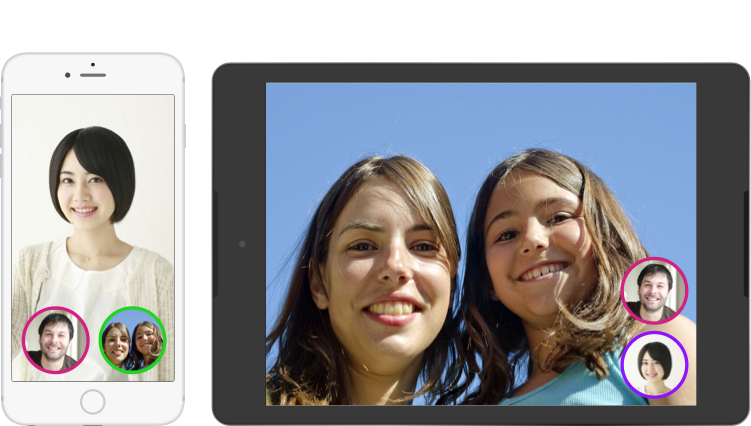
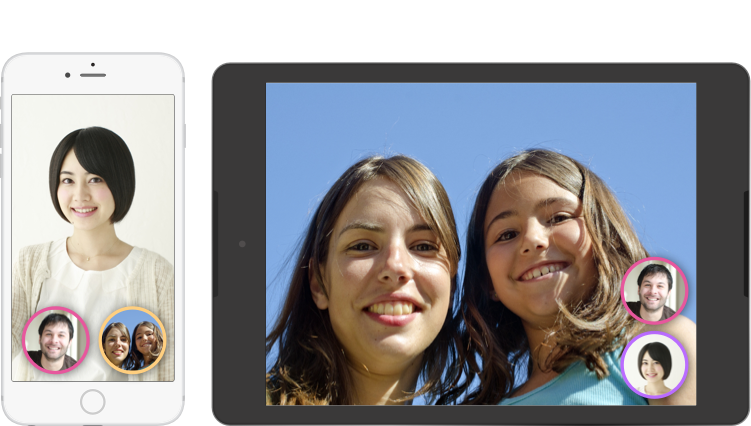
animation timing + ring colours

diff --git a/styles/transmission-animation-subpage.css b/styles/transmission-animation-subpage.css
@@ -42,7 +42,7 @@
     
     opacity: 0.1;
     
-    -webkit-animation: pulsateLogo 2s 1s ease-out infinite; 
+    -webkit-animation: pulsateLogo 3s 1s ease-out infinite; 
 }
 
 #animated-logo-js {
@@ -62,7 +62,7 @@
     
     opacity: 0.1;
     
-    -webkit-animation: pulsateLogo 2s 1s ease-out infinite; 
+    -webkit-animation: pulsateLogo 3s 1s ease-out infinite; 
 }
 
 .circle-container {
@@ -91,13 +91,13 @@
    
 }
 
-.circle-container div:nth-of-type(1) { -webkit-animation: pulsate1 2s 0s ease-out infinite;  } /* 12em = half the width of the wrapper */
-.circle-container div:nth-of-type(2) { -webkit-animation: pulsate2 2s 0.25s ease-out infinite; }
-.circle-container div:nth-of-type(3) { -webkit-animation: pulsate3 2s 0.5s ease-out infinite; }
-.circle-container div:nth-of-type(4) { -webkit-animation: pulsate4 2s 0.75s ease-out infinite; }
-.circle-container div:nth-of-type(5) { -webkit-animation: pulsate5 2s 1s ease-out infinite; }
-.circle-container div:nth-of-type(6) { -webkit-animation: pulsate6 2s 1.25s ease-out infinite; }
-.circle-container div:nth-of-type(7) { -webkit-animation: pulsate7 2s 1.5s ease-out infinite; }
+.circle-container div:nth-of-type(1) { -webkit-animation: pulsate1 3s 0s ease-out infinite;  } /* 12em = half the width of the wrapper */
+.circle-container div:nth-of-type(2) { -webkit-animation: pulsate2 3s 0.25s ease-out infinite; }
+.circle-container div:nth-of-type(3) { -webkit-animation: pulsate3 3s 0.5s ease-out infinite; }
+.circle-container div:nth-of-type(4) { -webkit-animation: pulsate4 3s 0.75s ease-out infinite; }
+.circle-container div:nth-of-type(5) { -webkit-animation: pulsate5 3s 1s ease-out infinite; }
+.circle-container div:nth-of-type(6) { -webkit-animation: pulsate6 3s 1.25s ease-out infinite; }
+.circle-container div:nth-of-type(7) { -webkit-animation: pulsate7 3s 1.5s ease-out infinite; }
 
 /* this is for showing the circle on which the images are placed */
 .circle-container:after {
@@ -116,44 +116,44 @@
 /*
 @-webkit-keyframes pulsate1 {
     0% {-webkit-transform: rotate(246deg) translate(20em) scale(0.1, 0.1); opacity: 0.0;}
-    50% {opacity: 0.8;}
-    100% {-webkit-transform: rotate(246deg) translate(20em) scale(1.2, 1.2); opacity: 0.0;}
+    33% {opacity: 0.8;}
+    66% {-webkit-transform: rotate(246deg) translate(20em) scale(1.2, 1.2); opacity: 0.0;}
 }
 
 @-webkit-keyframes pulsate2 {
     0% {-webkit-transform: rotate(256deg) translate(20em) scale(0.1, 0.1); opacity: 0.0;}
-    50% {opacity: 0.8;}
-    100% {-webkit-transform: rotate(256deg) translate(20em) scale(1.2, 1.2); opacity: 0.0;}
+    33% {opacity: 0.8;}
+    66% {-webkit-transform: rotate(256deg) translate(20em) scale(1.2, 1.2); opacity: 0.0;}
 }
 
 @-webkit-keyframes pulsate3 {
     0% {-webkit-transform: rotate(266deg) translate(20em) scale(0.1, 0.1); opacity: 0.0;}
-    50% {opacity: 0.8;}
-    100% {-webkit-transform: rotate(266deg) translate(20em) scale(1.2, 1.2); opacity: 0.0;}
+    33% {opacity: 0.8;}
+    66% {-webkit-transform: rotate(266deg) translate(20em) scale(1.2, 1.2); opacity: 0.0;}
 }
 
 @-webkit-keyframes pulsate4 {
     0% {-webkit-transform: rotate(276deg) translate(20em) scale(0.1, 0.1); opacity: 0.0;}
-    50% {opacity: 0.8;}
-    100% {-webkit-transform: rotate(276deg) translate(20em) scale(1.2, 1.2); opacity: 0.0;}
+    33% {opacity: 0.8;}
+    66% {-webkit-transform: rotate(276deg) translate(20em) scale(1.2, 1.2); opacity: 0.0;}
 }
 
 @-webkit-keyframes pulsate5 {
     0% {-webkit-transform: rotate(286deg) translate(20em) scale(0.1, 0.1); opacity: 0.0;}
-    50% {opacity: 0.8;}
-    100% {-webkit-transform: rotate(286deg) translate(20em) scale(1.2, 1.2); opacity: 0.0;}
+    33% {opacity: 0.8;}
+    66% {-webkit-transform: rotate(286deg) translate(20em) scale(1.2, 1.2); opacity: 0.0;}
 }
 
 @-webkit-keyframes pulsate6 {
     0% {-webkit-transform: rotate(296deg) translate(20em) scale(0.1, 0.1); opacity: 0.0;}
-    50% {opacity: 0.8;}
-    100% {-webkit-transform: rotate(296deg) translate(20em) scale(1.2, 1.2); opacity: 0.0;}
+    33% {opacity: 0.8;}
+    66% {-webkit-transform: rotate(296deg) translate(20em) scale(1.2, 1.2); opacity: 0.0;}
 }
 
 @-webkit-keyframes pulsate7 {
     0% {-webkit-transform: rotate(306deg) translate(20em) scale(0.1, 0.1); opacity: 0.0;}
-    50% {opacity: 0.8;}
-    100% {-webkit-transform: rotate(306deg) translate(20em) scale(1.2, 1.2); opacity: 0.0;}
+    33% {opacity: 0.8;}
+    66% {-webkit-transform: rotate(306deg) translate(20em) scale(1.2, 1.2); opacity: 0.0;}
 }
 */
 
@@ -161,48 +161,48 @@
 
 @keyframes pulsateLogo {
     0% {-webkit-transform: opacity: 0.25;}
-    50% {opacity: 0.8;}
-    100% {-webkit-transform: opacity: 0.25;}
+    33% {opacity: 0.8;}
+    66% {-webkit-transform: opacity: 0.25;}
 }
 
 @keyframes pulsate1 {
     0% {-webkit-transform: rotate(234deg) translate(20em) scale(0.1, 0.1); opacity: 0.0;}
-    50% {-webkit-transform: rotate(234deg) translate(20em) scale(0.75, 0.75); opacity: 0.8;}
-    100% {-webkit-transform: rotate(234deg) translate(20em) scale(0.1, 0.1); opacity: 0.0;}
+    33% {-webkit-transform: rotate(234deg) translate(20em) scale(0.75, 0.75); opacity: 0.8;}
+    66% {-webkit-transform: rotate(234deg) translate(20em) scale(0.1, 0.1); opacity: 0.0;}
 }
 
 @keyframes pulsate2 {
     0% {-webkit-transform: rotate(246deg) translate(20em) scale(0.1, 0.1); opacity: 0.0;}
-    50% {-webkit-transform: rotate(246deg) translate(20em) scale(0.9, 0.9);opacity: 0.8;}
-    100% {-webkit-transform: rotate(246deg) translate(20em) scale(0.1, 0.1); opacity: 0.0;}
+    33% {-webkit-transform: rotate(246deg) translate(20em) scale(0.9, 0.9);opacity: 0.8;}
+    66% {-webkit-transform: rotate(246deg) translate(20em) scale(0.1, 0.1); opacity: 0.0;}
 }
 
 @keyframes pulsate3 {
     0% {-webkit-transform: rotate(258deg) translate(20em) scale(0.1, 0.1); opacity: 0.0;}
-    50% {-webkit-transform: rotate(258deg) translate(20em) scale(1.05, 1.05); opacity: 0.8;}
-    100% {-webkit-transform: rotate(258deg) translate(20em) scale(0.1, 0.1); opacity: 0.0;}
+    33% {-webkit-transform: rotate(258deg) translate(20em) scale(1.05, 1.05); opacity: 0.8;}
+    66% {-webkit-transform: rotate(258deg) translate(20em) scale(0.1, 0.1); opacity: 0.0;}
 }
 
 @keyframes pulsate4 {
     0% {-webkit-transform: rotate(270deg) translate(20em) scale(0.1, 0.1); opacity: 0.0;}
-    50% {-webkit-transform: rotate(270deg) translate(20em) scale(1.2, 1.2); opacity: 0.8;}
-    100% {-webkit-transform: rotate(270deg) translate(20em) scale(0.1, 0.1); opacity: 0.0;}
+    33% {-webkit-transform: rotate(270deg) translate(20em) scale(1.2, 1.2); opacity: 0.8;}
+    66% {-webkit-transform: rotate(270deg) translate(20em) scale(0.1, 0.1); opacity: 0.0;}
 }
 
 @keyframes pulsate5 {
     0% {-webkit-transform: rotate(282deg) translate(20em) scale(0.1, 0.1); opacity: 0.0;}
-    50% {-webkit-transform: rotate(282deg) translate(20em) scale(1.05, 1.05); opacity: 0.8;}
-    100% {-webkit-transform: rotate(282deg) translate(20em) scale(0.1, 0.1); opacity: 0.0;}
+    33% {-webkit-transform: rotate(282deg) translate(20em) scale(1.05, 1.05); opacity: 0.8;}
+    66% {-webkit-transform: rotate(282deg) translate(20em) scale(0.1, 0.1); opacity: 0.0;}
 }
 
 @keyframes pulsate6 {
     0% {-webkit-transform: rotate(294deg) translate(20em) scale(0.1, 0.1); opacity: 0.0;}
-    50% {-webkit-transform: rotate(294deg) translate(20em) scale(0.9, 0.9); opacity: 0.8;}
-    100% {-webkit-transform: rotate(294deg) translate(20em) scale(0.1, 0.1); opacity: 0.0;}
+    33% {-webkit-transform: rotate(294deg) translate(20em) scale(0.9, 0.9); opacity: 0.8;}
+    66% {-webkit-transform: rotate(294deg) translate(20em) scale(0.1, 0.1); opacity: 0.0;}
 }
 
 @keyframes pulsate7 {
     0% {-webkit-transform: rotate(306deg) translate(20em) scale(0.1, 0.1); opacity: 0.0;}
-    50% {-webkit-transform: rotate(306deg) translate(20em) scale(0.75, 0.75); opacity: 0.8;}
-    100% {-webkit-transform: rotate(306deg) translate(20em) scale(0.1, 0.1); opacity: 0.0;}
+    33% {-webkit-transform: rotate(306deg) translate(20em) scale(0.75, 0.75); opacity: 0.8;}
+    66% {-webkit-transform: rotate(306deg) translate(20em) scale(0.1, 0.1); opacity: 0.0;}
 }

diff --git a/styles/transmission-animation.css b/styles/transmission-animation.css
@@ -50,13 +50,13 @@
    
 }
 
-.circle-container div:nth-of-type(1) { -webkit-animation: pulsate1 2s 0s ease-out infinite;  } /* 12em = half the width of the wrapper */
-.circle-container div:nth-of-type(2) { -webkit-animation: pulsate2 2s 0.25s ease-out infinite; }
-.circle-container div:nth-of-type(3) { -webkit-animation: pulsate3 2s 0.5s ease-out infinite; }
-.circle-container div:nth-of-type(4) { -webkit-animation: pulsate4 2s 0.75s ease-out infinite; }
-.circle-container div:nth-of-type(5) { -webkit-animation: pulsate5 2s 1s ease-out infinite; }
-.circle-container div:nth-of-type(6) { -webkit-animation: pulsate6 2s 1.25s ease-out infinite; }
-.circle-container div:nth-of-type(7) { -webkit-animation: pulsate7 2s 1.5s ease-out infinite; }
+.circle-container div:nth-of-type(1) { -webkit-animation: pulsate1 3s 0s ease-out infinite;  } /* 12em = half the width of the wrapper */
+.circle-container div:nth-of-type(2) { -webkit-animation: pulsate2 3s 0.25s ease-out infinite; }
+.circle-container div:nth-of-type(3) { -webkit-animation: pulsate3 3s 0.5s ease-out infinite; }
+.circle-container div:nth-of-type(4) { -webkit-animation: pulsate4 3s 0.75s ease-out infinite; }
+.circle-container div:nth-of-type(5) { -webkit-animation: pulsate5 3s 1s ease-out infinite; }
+.circle-container div:nth-of-type(6) { -webkit-animation: pulsate6 3s 1.25s ease-out infinite; }
+.circle-container div:nth-of-type(7) { -webkit-animation: pulsate7 3s 1.5s ease-out infinite; }
 
 /* this is for showing the circle on which the images are placed */
 .circle-container:after {
@@ -70,92 +70,92 @@
 	content: '';
 }
 
-/* Main Animation - webkit keyframes */
 
-/*
-@-webkit-keyframes pulsate1 {
-    0% {-webkit-transform: rotate(246deg) translate(24em) scale(0.1, 0.1); opacity: 0.0;}
-    50% {opacity: 0.8;}
-    100% {-webkit-transform: rotate(246deg) translate(24em) scale(1.2, 1.2); opacity: 0.0;}
-}
-
-@-webkit-keyframes pulsate2 {
-    0% {-webkit-transform: rotate(256deg) translate(24em) scale(0.1, 0.1); opacity: 0.0;}
-    50% {opacity: 0.8;}
-    100% {-webkit-transform: rotate(256deg) translate(24em) scale(1.2, 1.2); opacity: 0.0;}
-}
-
-@-webkit-keyframes pulsate3 {
-    0% {-webkit-transform: rotate(266deg) translate(24em) scale(0.1, 0.1); opacity: 0.0;}
-    50% {opacity: 0.8;}
-    100% {-webkit-transform: rotate(266deg) translate(24em) scale(1.2, 1.2); opacity: 0.0;}
-}
-
-@-webkit-keyframes pulsate4 {
-    0% {-webkit-transform: rotate(276deg) translate(24em) scale(0.1, 0.1); opacity: 0.0;}
-    50% {opacity: 0.8;}
-    100% {-webkit-transform: rotate(276deg) translate(24em) scale(1.2, 1.2); opacity: 0.0;}
-}
-
-@-webkit-keyframes pulsate5 {
-    0% {-webkit-transform: rotate(286deg) translate(24em) scale(0.1, 0.1); opacity: 0.0;}
-    50% {opacity: 0.8;}
-    100% {-webkit-transform: rotate(286deg) translate(24em) scale(1.2, 1.2); opacity: 0.0;}
-}
-
-@-webkit-keyframes pulsate6 {
-    0% {-webkit-transform: rotate(296deg) translate(24em) scale(0.1, 0.1); opacity: 0.0;}
-    50% {opacity: 0.8;}
-    100% {-webkit-transform: rotate(296deg) translate(24em) scale(1.2, 1.2); opacity: 0.0;}
-}
-
-@-webkit-keyframes pulsate7 {
-    0% {-webkit-transform: rotate(306deg) translate(24em) scale(0.1, 0.1); opacity: 0.0;}
-    50% {opacity: 0.8;}
-    100% {-webkit-transform: rotate(306deg) translate(24em) scale(1.2, 1.2); opacity: 0.0;}
-}
-*/
 
 /* */
 
 @keyframes pulsate1 {
     0% {-webkit-transform: rotate(246deg) translate(24em) scale(0.1, 0.1); opacity: 0.0;}
-    50% {opacity: 0.8;}
-    100% {-webkit-transform: rotate(246deg) translate(24em) scale(1.2, 1.2); opacity: 0.0;}
+    33% {opacity: 0.8;}
+    66% {-webkit-transform: rotate(246deg) translate(24em) scale(1.2, 1.2); opacity: 0.0;}
 }
 
 @keyframes pulsate2 {
     0% {-webkit-transform: rotate(256deg) translate(24em) scale(0.1, 0.1); opacity: 0.0;}
-    50% {opacity: 0.8;}
-    100% {-webkit-transform: rotate(256deg) translate(24em) scale(1.2, 1.2); opacity: 0.0;}
+    33% {opacity: 0.8;}
+    66% {-webkit-transform: rotate(256deg) translate(24em) scale(1.2, 1.2); opacity: 0.0;}
 }
 
 @keyframes pulsate3 {
     0% {-webkit-transform: rotate(266deg) translate(24em) scale(0.1, 0.1); opacity: 0.0;}
-    50% {opacity: 0.8;}
-    100% {-webkit-transform: rotate(266deg) translate(24em) scale(1.2, 1.2); opacity: 0.0;}
+    33% {opacity: 0.8;}
+    66% {-webkit-transform: rotate(266deg) translate(24em) scale(1.2, 1.2); opacity: 0.0;}
 }
 
 @keyframes pulsate4 {
     0% {-webkit-transform: rotate(276deg) translate(24em) scale(0.1, 0.1); opacity: 0.0;}
-    50% {opacity: 0.8;}
-    100% {-webkit-transform: rotate(276deg) translate(24em) scale(1.2, 1.2); opacity: 0.0;}
+    33% {opacity: 0.8;}
+    66% {-webkit-transform: rotate(276deg) translate(24em) scale(1.2, 1.2); opacity: 0.0;}
 }
 
 @keyframes pulsate5 {
     0% {-webkit-transform: rotate(286deg) translate(24em) scale(0.1, 0.1); opacity: 0.0;}
-    50% {opacity: 0.8;}
-    100% {-webkit-transform: rotate(286deg) translate(24em) scale(1.2, 1.2); opacity: 0.0;}
+    33% {opacity: 0.8;}
+    66% {-webkit-transform: rotate(286deg) translate(24em) scale(1.2, 1.2); opacity: 0.0;}
 }
 
 @keyframes pulsate6 {
     0% {-webkit-transform: rotate(296deg) translate(24em) scale(0.1, 0.1); opacity: 0.0;}
-    50% {opacity: 0.8;}
-    100% {-webkit-transform: rotate(296deg) translate(24em) scale(1.2, 1.2); opacity: 0.0;}
+    33% {opacity: 0.8;}
+    66% {-webkit-transform: rotate(296deg) translate(24em) scale(1.2, 1.2); opacity: 0.0;}
 }
 
 @keyframes pulsate7 {
     0% {-webkit-transform: rotate(306deg) translate(24em) scale(0.1, 0.1); opacity: 0.0;}
-    50% {opacity: 0.8;}
-    100% {-webkit-transform: rotate(306deg) translate(24em) scale(1.2, 1.2); opacity: 0.0;}
+    33% {opacity: 0.8;}
+    66% {-webkit-transform: rotate(306deg) translate(24em) scale(1.2, 1.2); opacity: 0.0;}
+}
+
+/* Main Animation - webkit keyframes */
+
+@-webkit-keyframes pulsate1 {
+    0% {-webkit-transform: rotate(246deg) translate(24em) scale(0.1, 0.1); opacity: 0.0;}
+    33% {opacity: 0.8;}
+    66% {-webkit-transform: rotate(246deg) translate(24em) scale(1.2, 1.2); opacity: 0.0;}
+}
+
+@-webkit-keyframes pulsate2 {
+    0% {-webkit-transform: rotate(256deg) translate(24em) scale(0.1, 0.1); opacity: 0.0;}
+    33% {opacity: 0.8;}
+    66% {-webkit-transform: rotate(256deg) translate(24em) scale(1.2, 1.2); opacity: 0.0;}
+}
+
+@-webkit-keyframes pulsate3 {
+    0% {-webkit-transform: rotate(266deg) translate(24em) scale(0.1, 0.1); opacity: 0.0;}
+    33% {opacity: 0.8;}
+    66% {-webkit-transform: rotate(266deg) translate(24em) scale(1.2, 1.2); opacity: 0.0;}
+}
+
+@-webkit-keyframes pulsate4 {
+    0% {-webkit-transform: rotate(276deg) translate(24em) scale(0.1, 0.1); opacity: 0.0;}
+    33% {opacity: 0.8;}
+    66% {-webkit-transform: rotate(276deg) translate(24em) scale(1.2, 1.2); opacity: 0.0;}
+}
+
+@-webkit-keyframes pulsate5 {
+    0% {-webkit-transform: rotate(286deg) translate(24em) scale(0.1, 0.1); opacity: 0.0;}
+    33% {opacity: 0.8;}
+    66% {-webkit-transform: rotate(286deg) translate(24em) scale(1.2, 1.2); opacity: 0.0;}
+}
+
+@-webkit-keyframes pulsate6 {
+    0% {-webkit-transform: rotate(296deg) translate(24em) scale(0.1, 0.1); opacity: 0.0;}
+    33% {opacity: 0.8;}
+    66% {-webkit-transform: rotate(296deg) translate(24em) scale(1.2, 1.2); opacity: 0.0;}
+}
+
+@-webkit-keyframes pulsate7 {
+    0% {-webkit-transform: rotate(306deg) translate(24em) scale(0.1, 0.1); opacity: 0.0;}
+    33% {opacity: 0.8;}
+    66% {-webkit-transform: rotate(306deg) translate(24em) scale(1.2, 1.2); opacity: 0.0;}
 }
